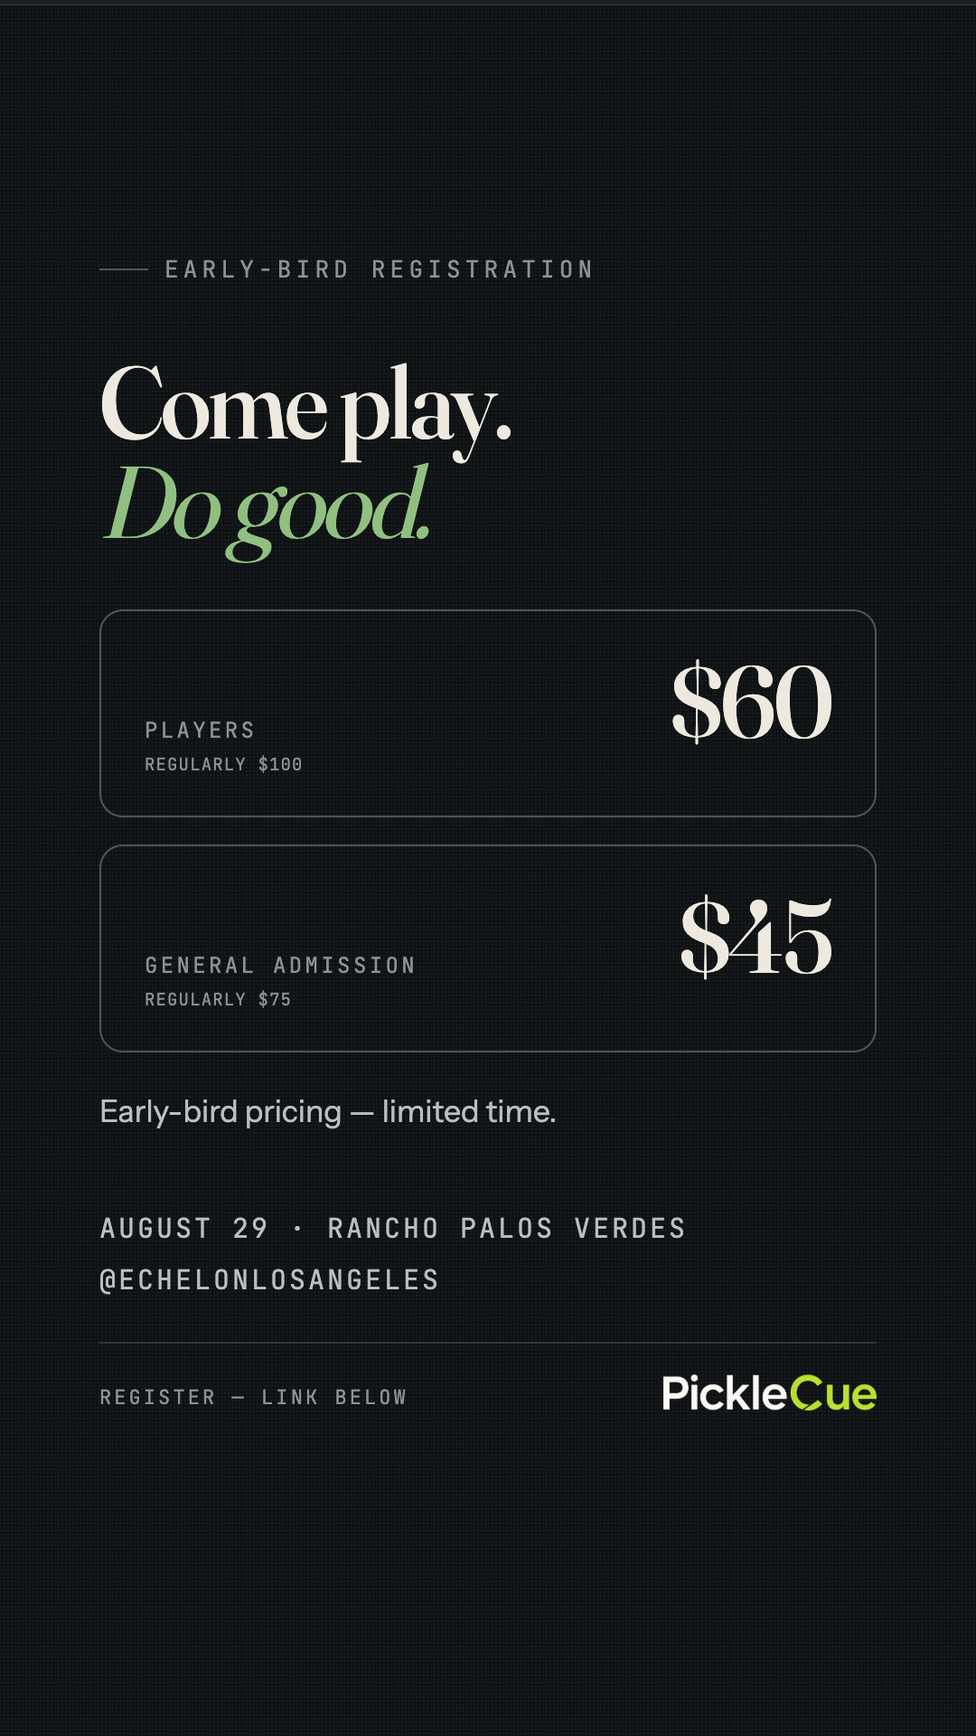
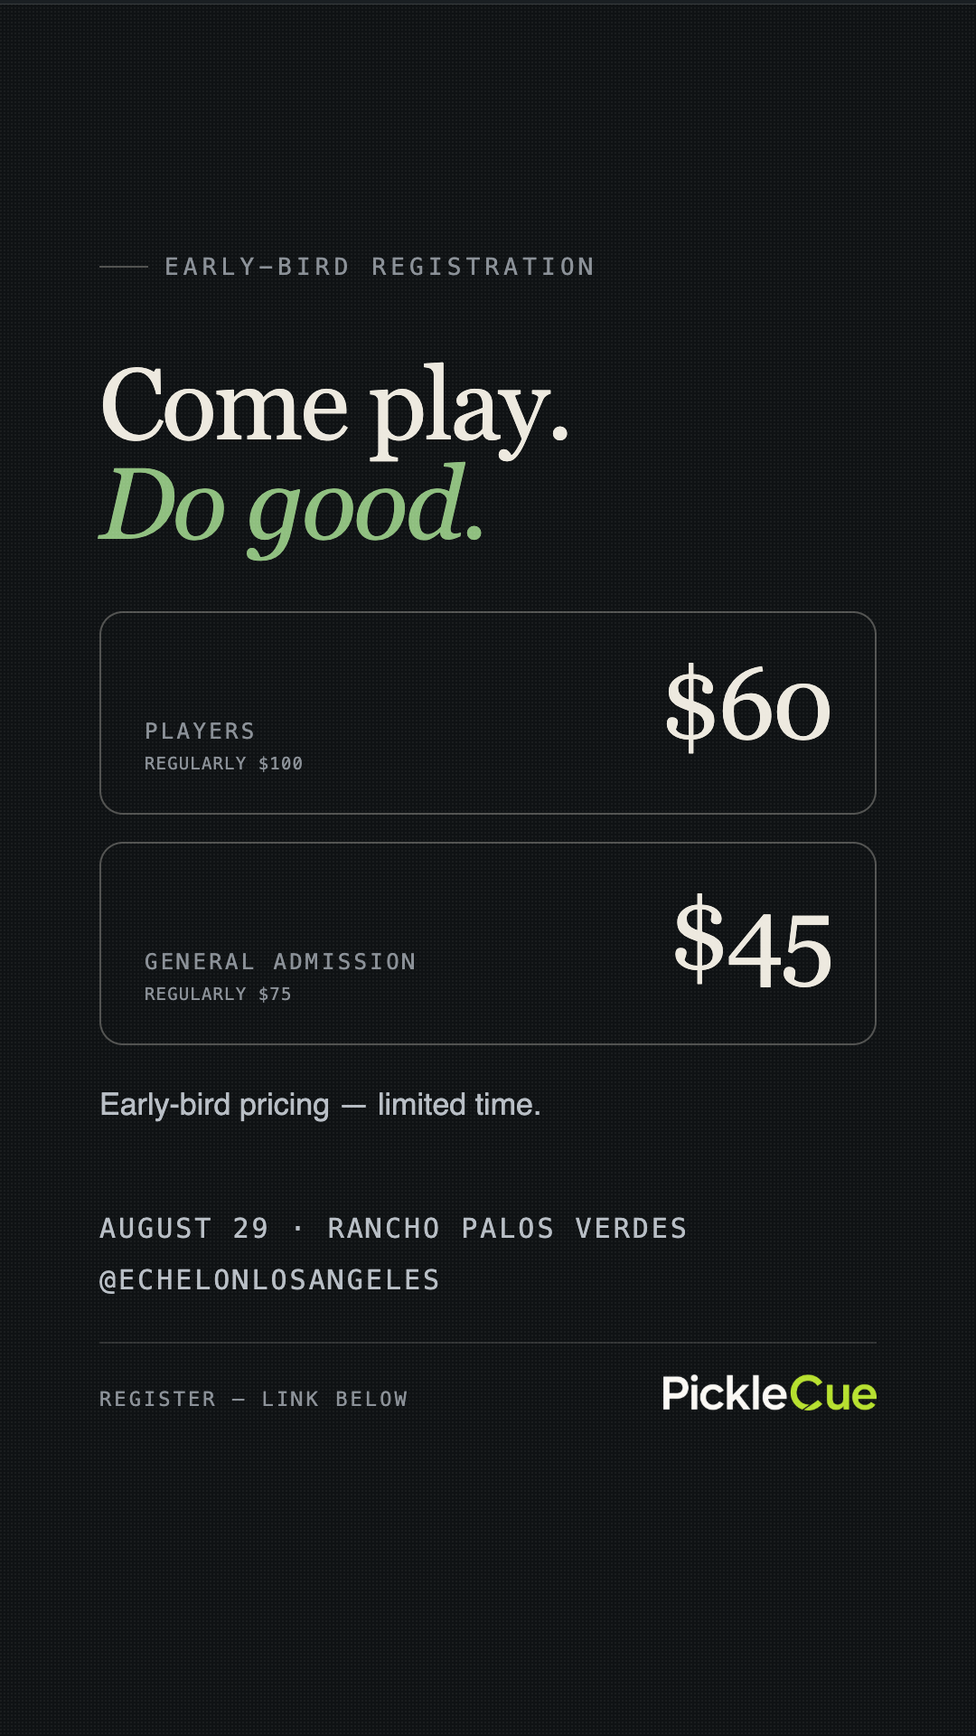
polish(community): premium editorial pass - hero art v2, de-boxed grid, CTA hierarchy
Final art-direction pass per Andrew's 17-point review. Architecture kept.

Hero: new composition - foreground-court golden crop with the app's 3D
ball GROUNDED on the surface (tight elliptical contact shadow, matched
grade and rim light - the earlier floating-ball composite is gone); photo
fills the hero column height with no card border, so text and photograph
read as one composition. Mobile badge no longer wraps: "Supported by
PickleCue" under 480px, full approved phrase elsewhere.

Conversion clarity:
- event CTAs are now PickleCue green (var(--court), both themes) so the
  register action is unmistakably primary against the neutral header pill;
  sticky mobile bar matches
- registration note simplified to "Registration and payment are handled on
  The Salvation Army's official event page ↗" (defensive "secure" wording
  removed)
- pricing rhythm: cards -> big green CTA -> "limited time" line ->
  "Proceeds support..." line, each separated

Density:
- What to expect de-boxed into an editorial icon/label spec grid (4-col
  desktop, 2-col mobile) - no dashboard cards
- inclusions are two compact bulleted lists instead of three paragraphs
- "No partner? No problem." reduced to one sentence
- About section replaced by a compact "Organized by Echelon LA Metro"
  organizer card with follow link
- section rhythm tightened 56->44px; mobile page meaningfully shorter with
  no font-size reductions

Consistency & access:
[…]

diff --git a/events/pickle-for-a-purpose/index.html b/events/pickle-for-a-purpose/index.html
@@ -135,23 +135,26 @@
     .k{font-size:13px;letter-spacing:.12em;text-transform:uppercase;color:var(--ink-soft);font-family:var(--f-mono)}
     h1{font-family:var(--f-display);font-weight:500;font-size:clamp(2.3rem,4.6vw + 0.5rem,4.2rem);line-height:1.04;margin:.26em 0;letter-spacing:-0.02em}
     h2{font-family:var(--f-display);font-weight:500;font-size:clamp(1.6rem,2.4vw,2rem);line-height:1.15;margin:0 0 .55em}
-    section{padding:56px 0 8px}
-    section + section{border-top:1px solid var(--rule);margin-top:44px}
+    section{padding:44px 0 8px}
+    section + section{border-top:1px solid var(--rule);margin-top:36px}
     section.hero-split + section{border-top:0;margin-top:0}
     .sub{color:var(--ink-soft);max-width:64ch;font-size:1.0625rem;line-height:1.7;margin:.4em 0 0}
     .lede{font-size:1.25rem;color:var(--ink-soft);max-width:44ch;margin-top:.7em;line-height:1.6}
-    .badge{display:inline-flex;align-items:center;gap:8px;padding:8px 15px;border:1px solid var(--rule-strong);border-radius:999px;font-family:var(--f-mono);font-size:13px;letter-spacing:.1em;text-transform:uppercase;color:var(--ink-soft)}
+    .badge{display:inline-flex;align-items:center;gap:8px;padding:8px 15px;border:1px solid var(--rule-strong);border-radius:999px;font-family:var(--f-mono);font-size:13px;letter-spacing:.1em;text-transform:uppercase;color:var(--ink-soft);white-space:nowrap}
+    .badge .b-short{display:none}
+    @media (max-width:479px){.badge .b-full{display:none}.badge .b-short{display:inline}}
 
     /* Split hero — copy left, photograph right. Mobile stacks badge >
        headline > copy > facts > photo > CTA. */
     .hero-split{display:grid;grid-template-columns:minmax(0,7fr) minmax(0,6fr);grid-template-areas:"copy photo" "cta photo";column-gap:clamp(32px,5vw,72px);row-gap:0;align-items:start;padding:48px 0 40px;border-bottom:1px solid var(--rule)}
     .hero-copy{grid-area:copy;min-width:0}
     .hero-cta{grid-area:cta;align-self:start}
-    .hero-photo{grid-area:photo;margin:0;min-width:0;align-self:center}
-    .hero-photo img{width:100%;height:auto;aspect-ratio:4/3;object-fit:cover;border-radius:18px;border:1px solid var(--rule)}
+    .hero-photo{grid-area:photo;margin:0;min-width:0;align-self:stretch}
+    .hero-photo img{width:100%;height:100%;min-height:440px;object-fit:cover;border-radius:22px}
     @media (max-width:899px){
       .hero-split{display:block;padding-top:32px}
       .hero-photo{margin:26px 0 0}
+      .hero-photo img{min-height:0;height:auto;aspect-ratio:16/10}
       .hero-cta{margin-top:22px}
     }
 
@@ -161,21 +164,26 @@
     .factlist a{color:var(--court);font-weight:600;text-decoration:underline;text-underline-offset:3px}
 
     /* One primary action; a quiet expectation-setting line under it. */
-    .cta{display:inline-flex;align-items:center;gap:10px;padding:16px 30px;border-radius:999px;background:var(--ink);color:var(--paper);text-decoration:none;font-weight:600;font-size:1.125rem;min-height:52px}
-    .cta:hover{background:var(--court);color:#0C0F12}
+    .cta{display:inline-flex;align-items:center;gap:10px;padding:16px 30px;border-radius:999px;background:var(--court);color:var(--paper);text-decoration:none;font-weight:600;font-size:1.125rem;min-height:52px}
+    .cta:hover{filter:brightness(1.08)}
     .cta-note{margin:14px 0 0;font-size:1rem;line-height:1.6;color:var(--ink-soft);max-width:46ch}
     .cta-note a{color:var(--court);font-weight:600;text-decoration:underline;text-underline-offset:3px}
     .cta-row{display:flex;flex-wrap:wrap;gap:12px;align-items:center;margin-top:18px}
     .cta-big{width:100%;max-width:560px;justify-content:center}
 
     /* What to expect — readable cards */
-    .xgrid{list-style:none;margin:26px 0 0;padding:0;display:grid;gap:14px;grid-template-columns:repeat(4,minmax(0,1fr))}
-    @media (max-width:1000px){.xgrid{grid-template-columns:repeat(3,minmax(0,1fr))}}
-    @media (max-width:700px){.xgrid{grid-template-columns:repeat(2,minmax(0,1fr))}}
-    .xcard{background:var(--paper-2);border:1px solid var(--card-rule);border-radius:14px;padding:22px 16px;display:flex;flex-direction:column;align-items:center;text-align:center;gap:12px;min-height:104px;justify-content:center}
-    .xcard svg{width:32px;height:32px;stroke:var(--court);fill:none;stroke-width:1.5;stroke-linecap:round;stroke-linejoin:round}
-    .xcard span{font-size:1.05rem;font-weight:500;line-height:1.35;color:var(--ink)}
+    .xgrid{list-style:none;margin:30px 0 0;padding:0;display:grid;gap:30px 26px;grid-template-columns:repeat(4,minmax(0,1fr))}
+    @media (max-width:900px){.xgrid{grid-template-columns:repeat(2,minmax(0,1fr));gap:24px 18px}}
+    .xcard{display:flex;flex-direction:column;align-items:flex-start;gap:10px}
+    .xcard svg{width:30px;height:30px;stroke:var(--court);fill:none;stroke-width:1.5;stroke-linecap:round;stroke-linejoin:round}
+    .xcard span{font-size:1.0625rem;font-weight:500;line-height:1.4;color:var(--ink)}
 
+    .includes{display:grid;grid-template-columns:repeat(2,minmax(0,1fr));gap:22px;margin:26px 0 0;max-width:820px}
+    @media (max-width:640px){.includes{grid-template-columns:1fr}}
+    .includes h3{font-family:var(--f-body);font-weight:600;font-size:1.0625rem;margin:0 0 .5em;color:var(--ink)}
+    .includes ul{list-style:none;margin:0;padding:0;display:flex;flex-direction:column;gap:9px}
+    .includes li{color:var(--ink-soft);font-size:1.0625rem;line-height:1.55;display:flex;gap:11px;align-items:baseline}
+    .includes li::before{content:"";width:7px;height:7px;flex:none;border-radius:50%;background:var(--court);transform:translateY(-2px)}
     .callout{margin:30px 0 0;max-width:68ch}
     .callout strong{display:block;font-family:var(--f-display);font-weight:500;font-size:1.5rem;letter-spacing:-0.01em;margin-bottom:.35em}
     .callout p{margin:0;color:var(--ink-soft);font-size:1.0625rem;line-height:1.7}
@@ -188,12 +196,15 @@
     .price .amt{font-family:var(--f-display);font-size:3rem;font-weight:500;line-height:1;display:block;margin:.2em 0 .1em}
     .price .amt small{font-family:var(--f-body);font-size:1.0625rem;font-weight:400;color:var(--ink-soft);margin-left:6px}
     .price .was{display:block;color:var(--ink-soft);font-size:1.0625rem;margin-top:10px;padding-top:10px;border-top:1px solid var(--rule)}
-    .limited{display:flex;gap:11px;align-items:center;color:var(--ink-soft);margin:18px 0 0;font-size:1.0625rem;line-height:1.6}
-    .limited svg{flex:none;width:22px;height:22px;stroke:var(--court);fill:none;stroke-width:1.5;stroke-linecap:round;stroke-linejoin:round}
+    .limited{color:var(--ink-soft);margin:16px 0 0;font-size:1rem;line-height:1.6}
+    .proceeds{color:var(--ink-soft);margin:6px 0 0;font-size:1rem;line-height:1.6}
 
     .disclaimer{margin-top:26px;padding:16px 18px;border-left:2px solid var(--rule-strong);color:var(--ink-soft);font-size:1rem;line-height:1.7;max-width:70ch}
 
-    .follow{display:inline-flex;align-items:center;gap:8px;margin-top:16px;font-weight:600;font-size:1.0625rem;color:var(--court);text-decoration:underline;text-underline-offset:4px;min-height:44px}
+    .follow{display:inline-flex;align-items:center;gap:8px;margin-top:14px;font-weight:600;font-size:1.0625rem;color:var(--court);text-decoration:underline;text-underline-offset:4px;min-height:44px}
+    .org-card{background:var(--paper-2);border:1px solid var(--card-rule);border-radius:16px;padding:26px 28px;max-width:640px}
+    .org-card h2{margin:0 0 .35em;font-size:1.5rem}
+    .org-card p{margin:0;color:var(--ink-soft);font-size:1.0625rem;line-height:1.65}
 
     /* Light mode: slightly stronger card separation (dark inherits --rule). */
     :root{--card-rule:rgba(12,15,18,0.18)}
@@ -206,7 +217,7 @@
     .sticky-cta{display:none}
     @media (max-width:768px){
       .sticky-cta{display:flex;position:fixed;left:14px;right:14px;bottom:calc(14px + env(safe-area-inset-bottom));z-index:60}
-      .sticky-cta a{flex:1;display:inline-flex;align-items:center;justify-content:center;gap:9px;padding:16px 22px;border-radius:999px;background:var(--ink);color:var(--paper);text-decoration:none;font-weight:600;font-size:1.0625rem;min-height:52px;box-shadow:0 10px 28px rgba(0,0,0,0.35)}
+      .sticky-cta a{flex:1;display:inline-flex;align-items:center;justify-content:center;gap:9px;padding:16px 22px;border-radius:999px;background:var(--court);color:var(--paper);text-decoration:none;font-weight:600;font-size:1.0625rem;min-height:52px;box-shadow:0 10px 28px rgba(0,0,0,0.35)}
       .sticky-cta[hidden]{display:none}
     }
 
@@ -275,7 +286,7 @@
   <main class="wrap page" id="main">
     <section class="hero-split" aria-labelledby="p4p-title" style="padding-top:48px">
       <div class="hero-copy">
-        <p class="badge">Community event supported by PickleCue</p>
+        <p class="badge"><span class="b-full">Community event supported by PickleCue</span><span class="b-short">Supported by PickleCue</span></p>
         <h1 id="p4p-title">Pickle for a Purpose</h1>
         <p class="lede">A charity pickleball evening that brings players together and supports a local cause.</p>
         <ul class="factlist">
@@ -306,7 +317,7 @@
             <svg viewBox="0 0 12 12" width="13" height="13" aria-hidden="true"><path d="M1 6h10M7 2l4 4-4 4" stroke="currentColor" stroke-width="1.5" fill="none" stroke-linecap="square"/></svg>
           </a>
         </div>
-        <p class="cta-note">The Register button takes you to The Salvation Army&rsquo;s secure <a href="https://give-sc.salvationarmy.org/event/the-salvation-army-or-echelon-pickleball-tournament-2026/e797563" target="_blank" rel="noopener noreferrer">official event page</a>, where sign-up and payment are handled.</p>
+        <p class="cta-note">Registration and payment are handled on The Salvation Army&rsquo;s <a href="https://give-sc.salvationarmy.org/event/the-salvation-army-or-echelon-pickleball-tournament-2026/e797563" target="_blank" rel="noopener noreferrer">official event page&nbsp;&#8599;</a></p>
       </div>
     </section>
 
@@ -324,10 +335,28 @@
       </ul>
       <div class="callout">
         <strong>No partner? No problem.</strong>
-        <p>Register on your own and the organizers will pair you with a partner at your skill level &mdash; or bring someone along.</p>
+        <p>Register solo and the organizers will pair you by skill level, or bring a partner.</p>
       </div>
-      <p class="sub" style="margin-top:18px">Player registration includes club access, pro coaching, beginner instruction, rental paddles and balls, a welcome bag, medal eligibility, refreshments, and the networking mixer.</p>
-      <p class="sub" style="margin-top:12px">General admission includes club access, beginner instruction, courtside seating, a welcome bag, refreshments, and the mixer.</p>
+      <div class="includes">
+        <div>
+          <h3>Player registration includes</h3>
+          <ul>
+            <li>Club access &amp; tournament play</li>
+            <li>Pro coaching &amp; beginner instruction</li>
+            <li>Rental paddles and balls</li>
+            <li>Welcome bag, refreshments &amp; mixer</li>
+            <li>Medal eligibility</li>
+          </ul>
+        </div>
+        <div>
+          <h3>General admission includes</h3>
+          <ul>
+            <li>Club access &amp; courtside seating</li>
+            <li>Beginner instruction</li>
+            <li>Welcome bag, refreshments &amp; mixer</li>
+          </ul>
+        </div>
+      </div>
     </section>
 
     <section class="measure" aria-labelledby="pricing-title">
@@ -349,33 +378,32 @@
            (Aug 10) is TENTATIVE per the organizers and is deliberately NOT
            rendered. Once the official page publishes it, change the .limited
            line to "Early bird ends Aug 10." -->
-      <p class="limited">
-        <svg viewBox="0 0 24 24" aria-hidden="true"><rect x="3.5" y="5" width="17" height="15.5" rx="2.5"/><path d="M3.5 9.5h17M8 3v4M16 3v4"/></svg>
-        Early-bird pricing is available for a limited time. All proceeds go to Salvation Army LA Metro programs.
-      </p>
-      <div class="cta-row">
+      <div class="cta-row" style="margin-top:26px">
         <a class="cta cta-big" href="/go/pickle-for-a-purpose" data-track="cta_click" data-cta="community_event_register_click" data-event-slug="pickle-for-a-purpose" data-placement="pricing">
           Register for Pickle for a Purpose
           <svg viewBox="0 0 12 12" width="13" height="13" aria-hidden="true"><path d="M1 6h10M7 2l4 4-4 4" stroke="currentColor" stroke-width="1.5" fill="none" stroke-linecap="square"/></svg>
         </a>
       </div>
-      <p class="disclaimer">PickleCue is supporting this event through community promotion. The event is organized by Echelon&nbsp;LA&nbsp;Metro &mdash; registration, payment, event operations, policies, and attendance are all handled by the event organizer.</p>
+      <p class="limited" style="margin-top:16px">Early-bird pricing is available for a limited time.</p>
+      <p class="proceeds">Proceeds support Salvation Army LA Metro programs.</p>
+      <p class="disclaimer">PickleCue is supporting this event through community promotion. The event is organized by Echelon&nbsp;LA&nbsp;Metro, which handles registration, payment, operations, policies, and attendance.</p>
     </section>
 
     <section class="measure" aria-labelledby="about-title">
-      <h2 id="about-title">About Echelon LA Metro</h2>
-      <p class="sub">Echelon LA Metro is the young-professionals chapter of The Salvation Army in Los Angeles &mdash; people in their 20s and 30s giving back to the city they love.</p>
-      <p class="sub" style="margin-top:12px">Pickle for a Purpose is their first annual charity pickleball tournament.</p>
-      <a class="follow" href="https://www.instagram.com/echelonlosangeles/" target="_blank" rel="noopener noreferrer">Follow Echelon LA Metro on Instagram &rarr; @echelonlosangeles</a>
+      <div class="org-card">
+        <h2 id="about-title">Organized by Echelon LA Metro</h2>
+        <p>The young-professionals chapter of The Salvation Army in Los Angeles. Pickle for a Purpose is their first annual charity pickleball tournament.</p>
+        <a class="follow" href="https://www.instagram.com/echelonlosangeles/" target="_blank" rel="noopener noreferrer">Follow @echelonlosangeles&nbsp;&#8599;</a>
+      </div>
     </section>
 
     <p class="k" style="margin-top:44px"><a href="/community.html">&larr; Back to Community</a></p>
   </main>
 
-  <footer class="colophon-mini" role="contentinfo" style="border-top:1px solid var(--rule); padding:28px 0 calc(28px + env(safe-area-inset-bottom)); font-family:var(--f-mono); font-size:11px; letter-spacing:0.14em; text-transform:uppercase; color:var(--ink-mute);">
+  <footer class="colophon-mini" role="contentinfo" style="border-top:1px solid var(--rule); padding:30px 0 calc(30px + env(safe-area-inset-bottom)); font-family:var(--f-mono); font-size:13px; letter-spacing:0.12em; text-transform:uppercase; color:var(--ink-soft);">
     <div class="page" style="display:flex; justify-content:space-between; align-items:center; gap:18px; flex-wrap:wrap;">
       <span>&copy; 2026 PickleCue</span>
-      <div style="display:flex; gap:28px; flex-wrap:wrap;">
+      <div style="display:flex; gap:30px; flex-wrap:wrap;">
         <a href="/privacy.html" style="color:var(--ink-soft);">Privacy</a>
         <a href="/terms.html" style="color:var(--ink-soft);">Terms</a>
         <a href="/support.html" style="color:var(--ink-soft);">Support</a>

diff --git a/community.html b/community.html
@@ -56,16 +56,16 @@
     .hero{padding:42px 0 24px;border-bottom:1px solid var(--rule)}
     .sub{color:var(--ink-soft);max-width:64ch;font-size:1.0625rem;line-height:1.7}
     .lede{font-size:1.25rem;color:var(--ink-soft);max-width:52ch;margin-top:.7em;line-height:1.6}
-    .cta{display:inline-flex;align-items:center;gap:10px;margin-top:14px;padding:15px 26px;border-radius:999px;background:var(--ink);color:var(--paper);text-decoration:none;font-weight:600;font-size:1.0625rem;min-height:50px}
-    .cta:hover{background:var(--court);color:#0C0F12}
+    .cta{display:inline-flex;align-items:center;gap:10px;margin-top:14px;padding:15px 26px;border-radius:999px;background:var(--court);color:var(--paper);text-decoration:none;font-weight:600;font-size:1.0625rem;min-height:50px}
+    .cta:hover{filter:brightness(1.08)}
     .cta-ghost{display:inline-flex;align-items:center;gap:9px;margin-top:14px;padding:15px 26px;border-radius:999px;border:1px solid var(--rule-strong);color:var(--ink);text-decoration:none;font-weight:600;font-size:1.0625rem;min-height:50px}
     .cta-ghost:hover{border-color:var(--court)}
     .cta-row{display:flex;flex-wrap:wrap;gap:12px;align-items:center}
     .badge{display:inline-flex;align-items:center;padding:7px 14px;border:1px solid var(--rule-strong);border-radius:999px;font-family:var(--f-mono);font-size:12px;letter-spacing:.1em;text-transform:uppercase;color:var(--ink-soft)}
-    .event{display:grid;grid-template-columns:minmax(0,1.45fr) minmax(0,1fr);gap:8px 30px;align-items:start;background:var(--paper-2);border:1px solid var(--card-rule,var(--rule));border-radius:16px;padding:24px;margin:22px 0}
+    .event{display:grid;grid-template-columns:minmax(0,1.15fr) minmax(0,1fr);gap:8px 34px;align-items:center;background:var(--paper-2);border:1px solid var(--card-rule,var(--rule));border-radius:18px;padding:28px;margin:18px 0 22px}
     .event-body{display:grid;gap:6px;justify-items:start}
     .event-media{margin:0;align-self:stretch}
-    .event-media img{width:100%;height:100%;min-height:230px;object-fit:cover;border-radius:12px;border:1px solid var(--rule);filter:brightness(.92)}
+    .event-media img{width:100%;height:100%;min-height:260px;object-fit:cover;object-position:78% center;border-radius:14px}
     @media (max-width:760px){.event{grid-template-columns:1fr}.event-media{order:-1}.event-media img{min-height:0;aspect-ratio:16/9}}
     :root{--card-rule:rgba(12,15,18,0.18)}
     @media (prefers-color-scheme:dark){:root:not([data-theme="light"]){--card-rule:var(--rule)}}
@@ -147,7 +147,7 @@
 
     <section>
       <h2>Events we support</h2>
-      <p class="sub">Charity tournaments, fundraisers, and community events we're helping spread the word about.</p>
+      <p class="k" style="margin-top:18px">Featured event</p>
 
       <article class="event">
         <div class="event-body">
@@ -157,7 +157,7 @@
           <li><svg viewBox="0 0 24 24" aria-hidden="true"><rect x="3.5" y="5" width="17" height="15.5" rx="2.5"/><path d="M3.5 9.5h17M8 3v4M16 3v4"/></svg>Saturday, August 29, 2026 &middot; 5&ndash;8&nbsp;PM</li>
           <li><svg viewBox="0 0 24 24" aria-hidden="true"><path d="M12 21s-6.5-5.4-6.5-10.2A6.5 6.5 0 0 1 12 4.3a6.5 6.5 0 0 1 6.5 6.5C18.5 15.6 12 21 12 21Z"/><circle cx="12" cy="10.8" r="2.3"/></svg>Peninsula Racquet Club &middot; Rancho Palos Verdes, CA</li>
         </ul>
-        <p>Echelon LA Metro's first annual charity pickleball tournament, benefiting The Salvation Army's food assistance, housing, youth, and senior programs across Los Angeles County. Mixed doubles, beginner through advanced.</p>
+        <p>Echelon LA Metro&rsquo;s first annual charity pickleball tournament, benefiting Salvation Army programs across Los Angeles County.</p>
         <div class="cta-row">
           <a class="cta" href="/events/pickle-for-a-purpose/" data-track="cta_click" data-cta="community_p4p_view">View event</a>
           <a class="cta-ghost" href="/go/pickle-for-a-purpose" data-track="cta_click" data-cta="community_event_register_click" data-event-slug="pickle-for-a-purpose" data-placement="community_card">Register</a>
@@ -174,8 +174,8 @@
     </section>
 
     <section>
-      <h2>Partner with PickleCue</h2>
-      <p class="sub">Running a tournament, league, club, or community event? We&rsquo;d love to hear what you&rsquo;re building.</p>
+      <h2>Bring your community to PickleCue</h2>
+      <p class="sub">Running a tournament, league, club, fundraiser, or community event? Let&rsquo;s see how PickleCue can help you reach more players.</p>
       <div class="cta-row">
         <a class="cta" href="mailto:partners@picklecue.com?subject=Partner%20with%20PickleCue&amp;body=Organization%3A%20%0AContact%20name%3A%20%0AEmail%20%2F%20phone%3A%20%0AWebsite%20or%20social%3A%20%0AEvent%20name%3A%20%0AEvent%20date%20%26%20location%3A%20%0AEstimated%20attendance%3A%20%0AWhat%20you%27re%20looking%20for%3A%20%0A%0ATell%20us%20a%20bit%20about%20what%20you%27re%20planning%3A%20%0A" data-track="cta_click" data-cta="community_partner_email">
           Tell us about your event
@@ -186,7 +186,7 @@
 
   </main>
 
-  <footer class="colophon-mini" role="contentinfo" style="border-top:1px solid var(--rule); padding:28px 0 calc(28px + env(safe-area-inset-bottom)); font-family:var(--f-mono); font-size:11px; letter-spacing:0.14em; text-transform:uppercase; color:var(--ink-mute);">
+  <footer class="colophon-mini" role="contentinfo" style="border-top:1px solid var(--rule); padding:30px 0 calc(30px + env(safe-area-inset-bottom)); font-family:var(--f-mono); font-size:13px; letter-spacing:0.12em; text-transform:uppercase; color:var(--ink-soft);">
     <div class="page" style="display:flex; justify-content:space-between; align-items:center; gap:18px; flex-wrap:wrap;">
       <span>&copy; 2026 PickleCue</span>
       <div style="display:flex; gap:28px; flex-wrap:wrap;">

diff --git a/poster-p4p-stories.html b/poster-p4p-stories.html
@@ -104,7 +104,7 @@
           Rancho Palos Verdes
         </div>
         <div class="foot" style="margin-top:48px">
-          <span style="white-space:nowrap">Presented by Echelon LA Metro</span>
+          <span style="white-space:nowrap">Organized by Echelon LA Metro</span>
           <span class="brandrow"><img src="images/wordmark-on-dark.png" alt="PickleCue"></span>
         </div>
       </div>

diff --git a/poster-p4p.html b/poster-p4p.html
@@ -98,7 +98,7 @@
           Peninsula Racquet Club · Rancho Palos Verdes
         </div>
         <div class="foot" style="margin-top:40px">
-          <span>Presented by Echelon LA Metro</span>
+          <span>Organized by Echelon LA Metro</span>
           <span class="brandrow">Supported by
             <img src="images/wordmark-on-dark.png" alt="PickleCue">
           </span>
